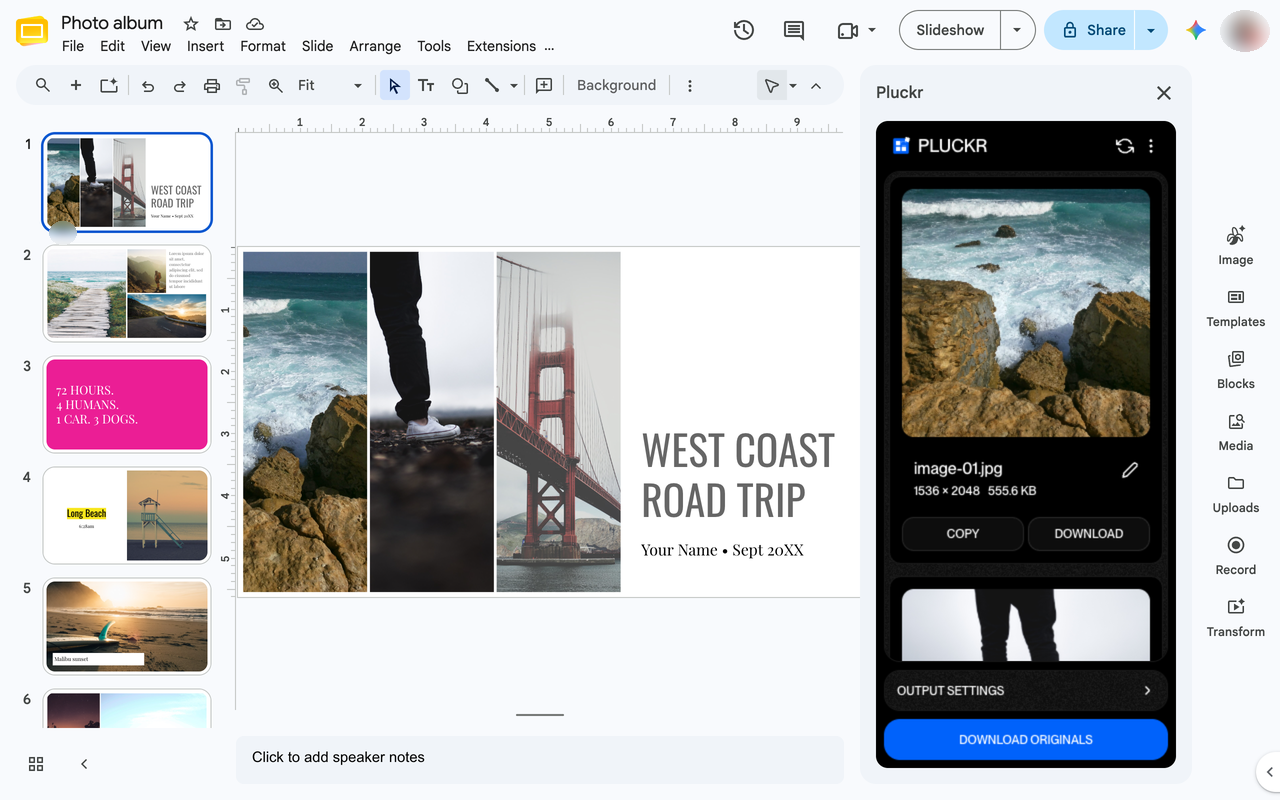
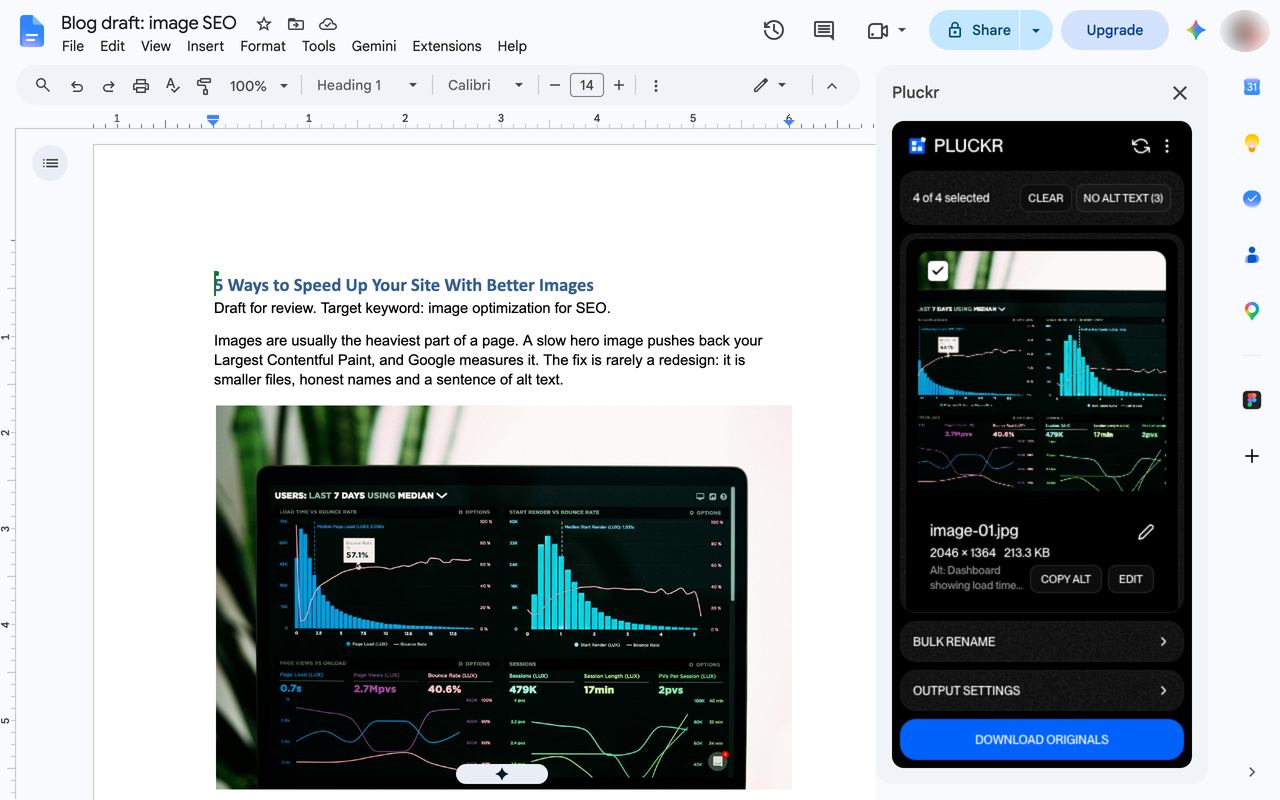
Release 2 screenshots: five neutral shots from the version 3 test

diff --git a/brand/marketplace/LISTING.md b/brand/marketplace/LISTING.md
@@ -77,3 +77,5 @@ Take them from script version 3 on a test deployment (Apps Script editor > Deplo
 The shot order: 1 Docs list with selection and alt text (dark); 2 Slides sidebar next to a deck; 3 Bulk rename with the live preview; 4 Output settings with WebP and 16:9; 5 light theme. Browser zoom 100%.
 
 The four shots for the live version 2 are in `brand/marketplace/screenshots-live/`.
+
+The Release 2 set (taken from the version 3 test on Oct 30, 2026, neutral content, avatars blurred) is in `brand/marketplace/screenshots-r2/`: 1 Docs list with selection and alt text, 2 Slides, 3 bulk rename, 4 output settings, 5 light theme. The 2560x1600 originals are in `hires/`. To retake a Docs shot, run the test (Deploy > Test deployments > Execute), then pass the opened Doc's full address (it carries `addon_dry_run`) as the last argument: `node scripts/marketplace-screenshots.mjs docs "<address>"`. The capture runs hidden.
